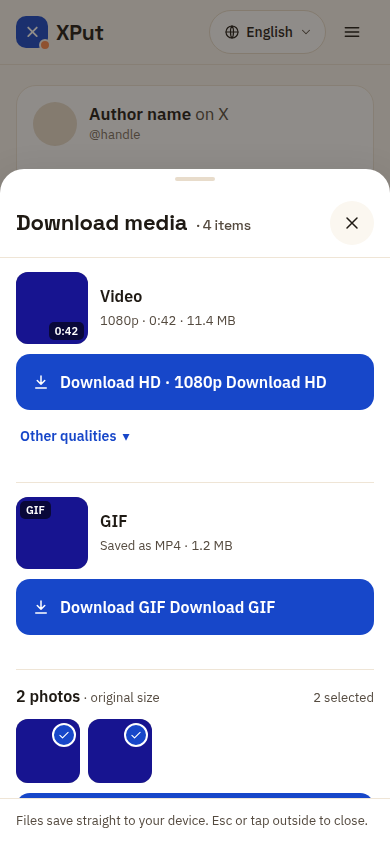
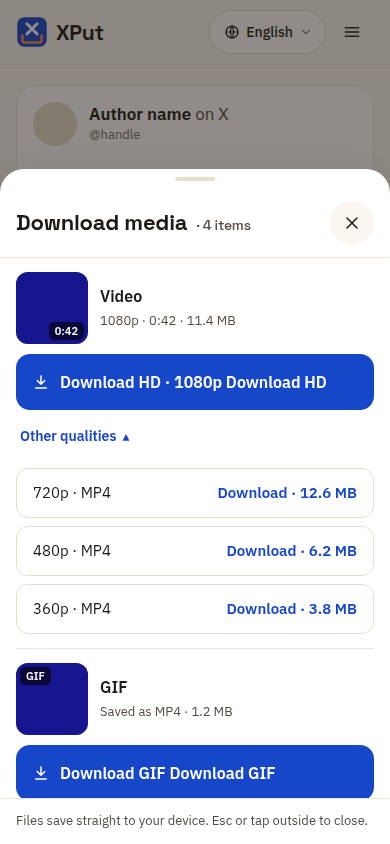
Other qualities open by default (card and dialog)
Claude-Session: https://claude.ai/code/session_01K3FubQE425GSZUCvkpQ9Qg

diff --git a/test/result-card.test.js b/test/result-card.test.js
@@ -78,7 +78,7 @@ test('image size variants and quality labels', () => {
   assert.equal(primaryQualityLabel({ height: 1080 }, zh.result), '下载高清 1080p');
 });
 
-test('video card: header, label, preview, best-quality button and collapsed other qualities', async () => {
+test('video card: header, label, preview, best-quality button and other qualities open by default', async () => {
   const s = setup({ sizes: { 'https://video.twimg.com/v/1080.mp4': 25300000, 'https://video.twimg.com/v/720.mp4': 13200000 } });
   const card = s.mount(post({ videos: [video()] }));
   await s.flush();
@@ -91,10 +91,12 @@ test('video card: header, label, preview, best-quality button and collapsed othe
   assert.equal(card.querySelector('.dl__label').textContent, 'Download HD · 1080p');
   assert.equal(card.querySelector('.dl__size').textContent, '24.1 MB', 'size arrives from /api/media-info');
   const toggle = card.querySelector('.toggle');
-  assert.equal(toggle.getAttribute('aria-expanded'), 'false');
+  assert.equal(toggle.getAttribute('aria-expanded'), 'true', 'other qualities are open by default');
+  assert.equal(card.querySelector('.variants').hidden, false);
+  s.click(toggle);
+  assert.equal(toggle.getAttribute('aria-expanded'), 'false', 'and can be folded away');
   assert.equal(card.querySelector('.variants').hidden, true);
   s.click(toggle);
-  assert.equal(toggle.getAttribute('aria-expanded'), 'true');
   assert.equal(card.querySelector('.variants').hidden, false);
   const rows = [...card.querySelectorAll('.variant')];
   assert.deepEqual(rows.map(r => r.querySelector('.variant__name').textContent), ['720p · MP4', '360p · MP4']);
@@ -496,7 +498,7 @@ test('download list: one compact row per media type with the info line, thumbnai
   assert.equal(videoRow.querySelector('.row__meta').textContent, '1080p · 0:42 · 11.4 MB');
   assert.equal(videoRow.querySelector('.thumb__duration').textContent, '0:42');
   assert.equal(videoRow.querySelector('.dl__label').textContent, 'Download HD · 1080p');
-  assert.equal(videoRow.querySelector('.toggle .toggle__arrow').textContent, '▾', '"Other qualities" sits under the row');
+  assert.equal(videoRow.querySelector('.toggle .toggle__arrow').textContent, '▴', '"Other qualities" sits under the row, open');
   const gifRow = rows.querySelector('.row--gif');
   assert.equal(gifRow.querySelector('.row__info strong').textContent, 'GIF');
   assert.equal(gifRow.querySelector('.row__meta').textContent, 'Saved as MP4 · 1.2 MB');

diff --git a/test/post-page.test.js b/test/post-page.test.js
@@ -241,13 +241,15 @@ test('dialog focus is not stolen from a visitor who already moved it', async () 
   assert.ok(focus.active() === s.q('[data-sheet-close]'));
 });
 
-test('dialog Tab / Shift+Tab wrap around inside the dialog and skip hidden items', async () => {
+test('dialog Tab / Shift+Tab wrap around inside the dialog and skip hidden items (folded qualities)', async () => {
   const s = setup({ routes: { '/api/resolve': reply(200, resolvedMixed) } });
   const focus = withFocus(s);
   s.click(s.q('[data-open-drawer]'));
   await s.flush();
   const items = () => [...s.q('[data-sheet]').querySelectorAll('button, a[href]')].filter(el => !el.disabled && !el.closest('[hidden]'));
-  assert.ok(!items().some(el => el.classList.contains('variant')), 'the collapsed qualities are not tab stops');
+  assert.ok(items().some(el => el.classList.contains('variant')), 'the open qualities are tab stops');
+  s.click(s.q('[data-sheet-body] .toggle'));
+  assert.ok(!items().some(el => el.classList.contains('variant')), 'folded qualities are not tab stops');
   const last = items().at(-1);
   last.focus();
   const forward = focus.key('Tab');

diff --git a/public/js/result-card.js b/public/js/result-card.js
@@ -312,8 +312,9 @@
     }
 
     function variantRows(variants, nameFor) {
-      var list = h('div', { class: 'variants', hidden: true });
-      var toggle = h('button', { class: 'toggle', type: 'button', 'aria-expanded': 'false' }, [h('span', { text: text.otherQualities }), h('span', { class: 'toggle__arrow', 'aria-hidden': 'true', text: '▾' })]);
+      // Open by default (product decision): the qualities are the second thing people look for; the toggle still folds them away.
+      var list = h('div', { class: 'variants' });
+      var toggle = h('button', { class: 'toggle', type: 'button', 'aria-expanded': 'true' }, [h('span', { text: text.otherQualities }), h('span', { class: 'toggle__arrow', 'aria-hidden': 'true', text: '▴' })]);
       variants.forEach(function (variant) {
         var row = h('button', { class: 'variant', type: 'button' });
         var status = h('span', { class: 'variant__status' });

diff --git a/docs/frontend-open-questions.md b/docs/frontend-open-questions.md
@@ -71,3 +71,6 @@ Space Grotesk, IBM Plex Sans (served from `/fonts/`) and Noto Sans SC (OG images
 
 ## Source success-rate statistics
 When computing per-source success rates from the `[fetch]` log lines, leave out entries with `"definitive": true`. They are the post's own state (`reason`: `not_found`, `deleted`, `private`, `suspended`), not a source fault, so they count neither as a failure nor as a success. Only `timeout`, `network`, `upstream` (5xx/unexpected status), `rate_limit` and `incomplete` (parse failure) entries are source failures.
+
+## Other qualities open by default
+Product decision after v3 review: "Other qualities" starts expanded in both the result card and the download dialog (the boards show it folded). The toggle still folds it away.
